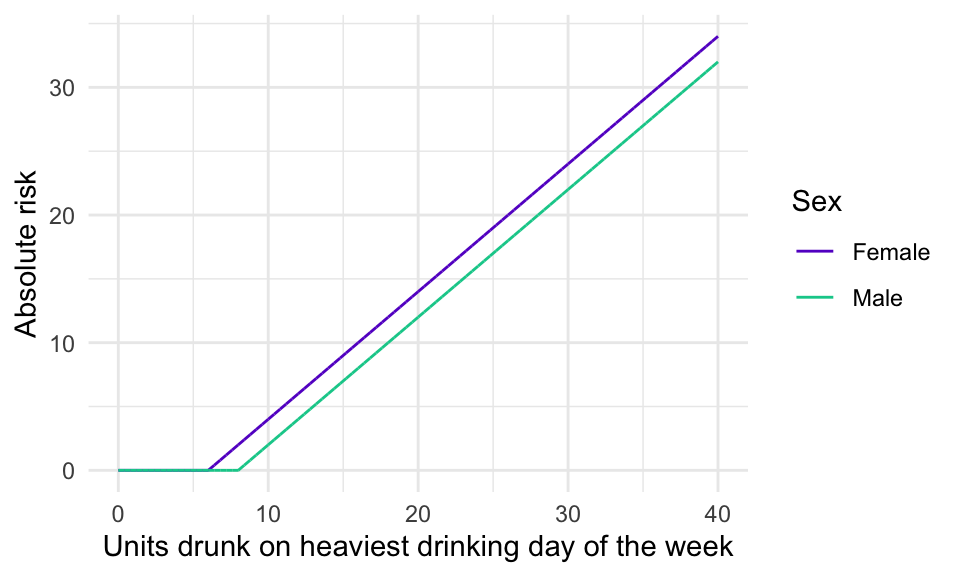
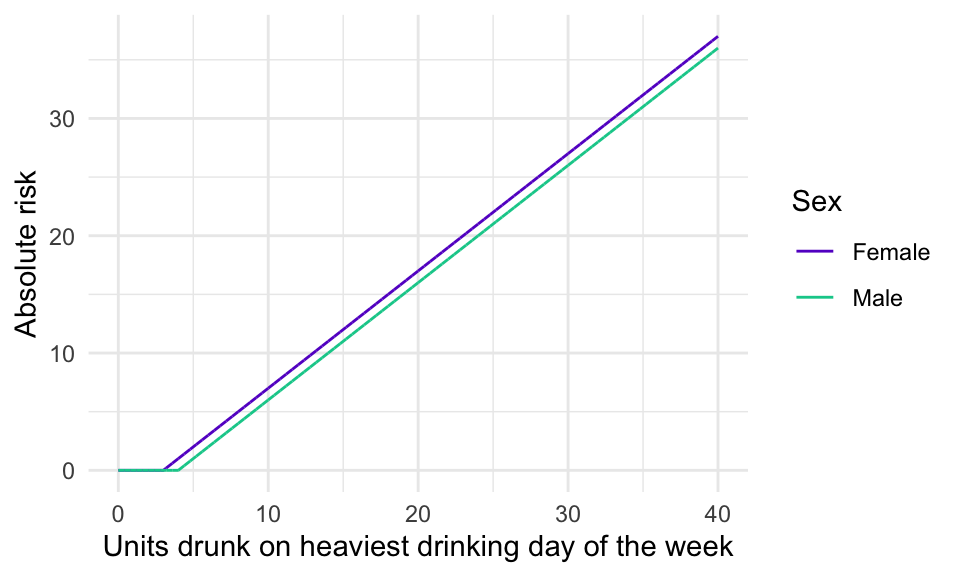
update alc wholly-attrib risk function code and desc

diff --git a/public/articles/alc_wholly_attrib_chronic.html b/public/articles/alc_wholly_attrib_chronic.html
@@ -5,13 +5,13 @@
 <meta charset="utf-8">
 <meta http-equiv="X-UA-Compatible" content="IE=edge">
 <meta name="viewport" content="width=device-width, initial-scale=1.0">
-<title>Risk of acute conditions wholly-attributable to alcohol • tobalcepi</title>
+<title>Risk of chronic conditions wholly-attributable to alcohol • tobalcepi</title>
 <!-- jquery --><script src="https://cdnjs.cloudflare.com/ajax/libs/jquery/3.4.1/jquery.min.js" integrity="sha256-CSXorXvZcTkaix6Yvo6HppcZGetbYMGWSFlBw8HfCJo=" crossorigin="anonymous"></script><!-- Bootstrap --><link href="https://cdnjs.cloudflare.com/ajax/libs/bootswatch/3.4.0/flatly/bootstrap.min.css" rel="stylesheet" crossorigin="anonymous">
 <script src="https://cdnjs.cloudflare.com/ajax/libs/twitter-bootstrap/3.4.1/js/bootstrap.min.js" integrity="sha256-nuL8/2cJ5NDSSwnKD8VqreErSWHtnEP9E7AySL+1ev4=" crossorigin="anonymous"></script><!-- bootstrap-toc --><link rel="stylesheet" href="../bootstrap-toc.css">
 <script src="../bootstrap-toc.js"></script><!-- Font Awesome icons --><link rel="stylesheet" href="https://cdnjs.cloudflare.com/ajax/libs/font-awesome/5.12.1/css/all.min.css" integrity="sha256-mmgLkCYLUQbXn0B1SRqzHar6dCnv9oZFPEC1g1cwlkk=" crossorigin="anonymous">
 <link rel="stylesheet" href="https://cdnjs.cloudflare.com/ajax/libs/font-awesome/5.12.1/css/v4-shims.min.css" integrity="sha256-wZjR52fzng1pJHwx4aV2AO3yyTOXrcDW7jBpJtTwVxw=" crossorigin="anonymous">
 <!-- clipboard.js --><script src="https://cdnjs.cloudflare.com/ajax/libs/clipboard.js/2.0.6/clipboard.min.js" integrity="sha256-inc5kl9MA1hkeYUt+EC3BhlIgyp/2jDIyBLS6k3UxPI=" crossorigin="anonymous"></script><!-- headroom.js --><script src="https://cdnjs.cloudflare.com/ajax/libs/headroom/0.11.0/headroom.min.js" integrity="sha256-AsUX4SJE1+yuDu5+mAVzJbuYNPHj/WroHuZ8Ir/CkE0=" crossorigin="anonymous"></script><script src="https://cdnjs.cloudflare.com/ajax/libs/headroom/0.11.0/jQuery.headroom.min.js" integrity="sha256-ZX/yNShbjqsohH1k95liqY9Gd8uOiE1S4vZc+9KQ1K4=" crossorigin="anonymous"></script><!-- pkgdown --><link href="../pkgdown.css" rel="stylesheet">
-<script src="../pkgdown.js"></script><meta property="og:title" content="Risk of acute conditions wholly-attributable to alcohol">
+<script src="../pkgdown.js"></script><meta property="og:title" content="Risk of chronic conditions wholly-attributable to alcohol">
 <meta property="og:description" content="tobalcepi">
 <!-- mathjax --><script src="https://cdnjs.cloudflare.com/ajax/libs/mathjax/2.7.5/MathJax.js" integrity="sha256-nvJJv9wWKEm88qvoQl9ekL2J+k/RWIsaSScxxlsrv8k=" crossorigin="anonymous"></script><script src="https://cdnjs.cloudflare.com/ajax/libs/mathjax/2.7.5/config/TeX-AMS-MML_HTMLorMML.js" integrity="sha256-84DKXVJXs0/F8OTMzX4UR909+jtl4G7SPypPavF+GfA=" crossorigin="anonymous"></script><!--[if lt IE 9]>
 <script src="https://oss.maxcdn.com/html5shiv/3.7.3/html5shiv.min.js"></script>
@@ -84,11 +84,11 @@
       </header><div class="row">
   <div class="col-md-9 contents">
     <div class="page-header toc-ignore">
-      <h1 data-toc-skip>Risk of acute conditions wholly-attributable to alcohol</h1>
+      <h1 data-toc-skip>Risk of chronic conditions wholly-attributable to alcohol</h1>
             
       
       
-      <div class="hidden name"><code>alc_wholly_attrib_acute.Rmd</code></div>
+      <div class="hidden name"><code>alc_wholly_attrib_chronic.Rmd</code></div>
 
     </div>
 
@@ -97,36 +97,30 @@
 <div id="introduction" class="section level1">
 <h1 class="hasAnchor">
 <a href="#introduction" class="anchor"></a>Introduction</h1>
-<p>Here we describe the approach taken in STAPM to model the health harms that are wholly-attributable to level of acute alcohol intake on a single occasion. The health harms that we consider in this category are conditions associated with the effects of excessive blood level of alcohol, toxic effects of alcohol, alcohol poisoning, and acute intoxication. “Wholly-attributable acute” means that these conditions cannot occur without alcohol (i.e. all cases are due to alcohol consumption) and the risk of these conditions changes with acute exposure to alcohol.</p>
+<p>Here we describe the approach taken in STAPM to model the chronic health harms that are wholly-attributable to long-term high levels of alcohol consumption. The health harms that we consider in this category are: Alcoholic cardiomyopathy, Alcoholic gastritis, Alcoholic liver disease, Acute pancreatitis alcohol induced, Chronic pancreatitis alcohol induced, Alcohol induced pseudo-cushings syndrome, Alcoholic myopathy, Alcoholic polyneuropathy, Maternal care for suspected damage to foetus from alcohol, Degeneration, Mental and behavioural disorders due to use of alcohol <span class="citation">(Angus et al. <a href="#ref-Angus2018">2018</a>)</span>. “Wholly-attributable” means that these conditions cannot occur without alcohol (i.e. all cases are due to alcohol consumption).</p>
 </div>
 <div id="the-sapm-method" class="section level1">
 <h1 class="hasAnchor">
 <a href="#the-sapm-method" class="anchor"></a>The SAPM method</h1>
-<p>We build on the method used to model the acute health harms that are wholly-attributable to alcohol in the Sheffield Alcohol Policy Model (SAPM).</p>
-<p>The main issue to be overcome in the development of SAPM was that there was no available evidence on the relationship between the level of acute exposure to alcohol within a single drinking ocassion and the risk of acute harms that were wholly attributable to this acute exposure. Assumptions therefore needed to be made about the shape of the risk function that links the level of single ocassion drinking to the risk of acute harms (the approach taken is described on page 29 in the Purshouse et al. modelling report for NICE <span class="citation">(<a href="#ref-purshouse2009nice">2009</a>)</span>).</p>
-<p>In addition, due to the harms being wholly-attributable to alcohol, no cases are expected in people who consume below a certain threshold of alcohol on a single ocassion, i.e. there are no cases in the non-exposed reference group. One of the consequences of this is that it is not possible to calculate relative risk; instead, the relationship between single ocassion drinking and acute harm must be represented by an absolute risk function, e.g. in terms of the expected number of deaths or hospitalisations if a certain number of people were to drink a certain number of units of alcohol on a single ocassion. Figure 1 shows the shape of the risk function currently used in SAPM.</p>
+<p>We build on the method used to model the chronic health harms that are wholly-attributable to alcohol in the Sheffield Alcohol Policy Model (SAPM). The main issue is that there is minimal available evidence on the relationship between the level of long-term alcohol consumption and the risk of chronic harms that were wholly attributable to alcohol. Assumptions are therefore needed about the shape of the risk function that links alcohol consumption to the risk of wholly alcohol attributable chronic conditions (the approach taken is described on page 28 in the Purshouse et al. modelling report for NICE <span class="citation">(<a href="#ref-purshouse2009nice">2009</a>)</span>).</p>
+<p>When the UK healthy drinking guidelines were revised, the thresholds used were revised to 2 units/day for females and males (14 units/week). Figure 1 shows the shape of the risk function currently used in SAPM.</p>
 <div class="figure" style="text-align: left">
-<img src="alc_wholly_attrib_acute_files/figure-html/wa_acute_risk_function-1.png" alt="**Figure 1.** Illustrative linear absolute risk function for a wholly-attributable acute harm. It is assumed that males are not at risk of acute harm unless they drink over 4 units on a single occassion, and that females are not at risk unless they drink over 3 units on a single ocassion. Above these thresholds, it is assumed that risk increases linearly with the amount drunk. SAPM uses data from the Health Survey for England on the amount drunk on the heaviest drinking day in the last 7 days." width="480"><p class="caption">
-<strong>Figure 1.</strong> Illustrative linear absolute risk function for a wholly-attributable acute harm. It is assumed that males are not at risk of acute harm unless they drink over 4 units on a single occassion, and that females are not at risk unless they drink over 3 units on a single ocassion. Above these thresholds, it is assumed that risk increases linearly with the amount drunk. SAPM uses data from the Health Survey for England on the amount drunk on the heaviest drinking day in the last 7 days.
+<img src="alc_wholly_attrib_chronic_files/figure-html/wa_chronic_risk_function-1.png" alt="**Figure 1.** Illustrative linear absolute risk function for a wholly-attributable chronic harm. It is assumed that people are not at risk of harm unless they drink to levels above the UK health drinking guidelines of 2 units/day on average (14 units/week). Above these thresholds, it is assumed that risk increases linearly with the amount drunk." width="480"><p class="caption">
+<strong>Figure 1.</strong> Illustrative linear absolute risk function for a wholly-attributable chronic harm. It is assumed that people are not at risk of harm unless they drink to levels above the UK health drinking guidelines of 2 units/day on average (14 units/week). Above these thresholds, it is assumed that risk increases linearly with the amount drunk.
 </p>
 </div>
 </div>
-<div id="adaptation-to-suit-stapm" class="section level1">
+<div id="implementing-in-the-stapm-code" class="section level1">
 <h1 class="hasAnchor">
-<a href="#adaptation-to-suit-stapm" class="anchor"></a>Adaptation to suit STAPM</h1>
-<p><em>The problem</em><br>
-The main difference between SAPM and STAPM is that STAPM simulates the individual lifecourse dynamics of the average weekly amount of alcohol consumed - STAPM does not simulate the dynamics of the amount drunk on the heaviest drinking day. This means that for STAPM, we need to develop a method to link the risk of acute harms that are wholly-attributable to alcohol consumption to average weekly alcohol consumption.</p>
-<p><em>The solution</em><br>
-The solution is to draw on the methods described in <code><a href="../articles/alc_partially_attrib_acute.html">vignette("alc_partially_attrib_acute")</a></code>, which uses parameter values from Hill-McManus et al. <span class="citation">(<a href="#ref-hill2014estimation">2014</a>)</span> to infer the characteristics of single ocassion drinking from average weekly alcohol consumption and a range of individual-level covariates. Using the method in <code><a href="../reference/AlcBinge_stapm.html">tobalcepi::AlcBinge_stapm()</a></code> we can calculate the average parameter values by age, sex and IMD quintile. Using these parameter values, we can translate each individual’s average weekly alcohol consumption to their expected number of weekly drinking ocasions, and the distribution of the amounts that each individual drinks on their drinking ocassions. For each individual, we can then calculate the total number of units per year that are drunk after each individual has already exceeded the single ocassion drinking thresholds of 4 units/day for men and 3 units/day for women.</p>
-<p><em>Implementing in the STAPM code</em><br>
-A new function <code><a href="../reference/WArisk_acute.html">tobalcepi::WArisk_acute()</a></code> has been created to calculate the total number of units that each individual is expected to drink above the single ocassion binge drinking thresholds. This function is called from within the function <code><a href="../reference/RRalc.html">tobalcepi::RRalc()</a></code> and uses the parameters outputs by <code><a href="../reference/AlcBinge_stapm.html">tobalcepi::AlcBinge_stapm()</a></code>.</p>
+<a href="#implementing-in-the-stapm-code" class="anchor"></a>Implementing in the STAPM code</h1>
+<p>The SAPM method is implemented unchanged in the STAPM code, within the function <code><a href="../reference/RRalc.html">tobalcepi::RRalc()</a></code>.</p>
 </div>
 <div id="references" class="section level1 unnumbered">
 <h1 class="hasAnchor">
 <a href="#references" class="anchor"></a>References</h1>
 <div id="refs" class="references">
-<div id="ref-hill2014estimation">
-<p>Hill-McManus, Daniel, Colin Angus, Yang Meng, John Holmes, Alan Brennan, and Petra Sylvia Meier. 2014. “Estimation of Usual Occasion-Based Individual Drinking Patterns Using Diary Survey Data.” <em>Drug and Alcohol Dependence</em> 134. Elsevier: 136–43. <a href="https://doi.org/https://doi.org/10.1016/j.drugalcdep.2013.09.022">https://doi.org/https://doi.org/10.1016/j.drugalcdep.2013.09.022</a>.</p>
+<div id="ref-Angus2018">
+<p>Angus, Colin, M Henney, L Webster, and Duncan Gillespie. 2018. <em>Alcohol-Attributable Diseases and Dose-Response Curves for the Sheffield Alcohol Policy Model Version 4.0</em>. <a href="https://doi.org/10.15131/shef.data.6819689.v1">https://doi.org/10.15131/shef.data.6819689.v1</a>.</p>
 </div>
 <div id="ref-purshouse2009nice">
 <p>Purshouse R, Latimer N, Brennan A. 2009. “Modelling to Assess the Effectiveness and Cost-Effectiveness of Public Health Related Strategies and Intervention to Reduce Alcohol Attributable Harm in England Using the Sheffield Alcohol Policy Model Version 2.0.” Report to the NICE Public Health Programme Development Group. <a href="https://www.nice.org.uk/guidance/ph24/evidence/economic-modelling-report-371533357">https://www.nice.org.uk/guidance/ph24/evidence/economic-modelling-report-371533357</a>.</p>

diff --git a/public/reference/RRFunc.html b/public/reference/RRFunc.html
@@ -103,6 +103,9 @@ to the alcohol only, tobacco only, or joint tobacco and alcohol contexts." />
       <a href="../articles/alc_wholly_attrib_acute.html">Risk of acute conditions wholly-attributable to alcohol</a>
     </li>
     <li>
+      <a href="../articles/alc_wholly_attrib_chronic.html">Risk of chronic conditions wholly-attributable to alcohol</a>
+    </li>
+    <li>
       <a href="../articles/attributable-fractions.html">Population attributable fractions of disease</a>
     </li>
     <li>
@@ -146,8 +149,8 @@ to the alcohol only, tobacco only, or joint tobacco and alcohol contexts.</p>
   <span class='kw'>alc_risk_lags</span> <span class='kw'>=</span> <span class='fl'>TRUE</span>,
   <span class='kw'>alc_indiv_risk_trajectories_store</span> <span class='kw'>=</span> <span class='kw'>NULL</span>,
   <span class='kw'>alc_protective</span> <span class='kw'>=</span> <span class='fl'>TRUE</span>,
-  <span class='kw'>alc_wholly_chronic_thresholds</span> <span class='kw'>=</span> <span class='fu'><a href='https://rdrr.io/r/base/c.html'>c</a></span>(<span class='fl'>6</span>, <span class='fl'>8</span>),
-  <span class='kw'>alc_wholly_acute_thresholds</span> <span class='kw'>=</span> <span class='fu'><a href='https://rdrr.io/r/base/c.html'>c</a></span>(<span class='fl'>6</span>, <span class='fl'>8</span>),
+  <span class='kw'>alc_wholly_chronic_thresholds</span> <span class='kw'>=</span> <span class='fu'><a href='https://rdrr.io/r/base/c.html'>c</a></span>(<span class='fl'>2</span>, <span class='fl'>2</span>),
+  <span class='kw'>alc_wholly_acute_thresholds</span> <span class='kw'>=</span> <span class='fu'><a href='https://rdrr.io/r/base/c.html'>c</a></span>(<span class='fl'>3</span>, <span class='fl'>4</span>),
   <span class='kw'>grams_ethanol_per_unit</span> <span class='kw'>=</span> <span class='fl'>8</span>,
   <span class='kw'>tob_diseases</span> <span class='kw'>=</span> <span class='fu'><a href='https://rdrr.io/r/base/c.html'>c</a></span>(<span class='st'>"Pharynx"</span>, <span class='st'>"Oral_cavity"</span>),
   <span class='kw'>tob_include_risk_in_former_smokers</span> <span class='kw'>=</span> <span class='fl'>TRUE</span>,
@@ -198,15 +201,17 @@ alcohol in the risk function. Defaults to TRUE. If TRUE, then the part of the ri
     </tr>
     <tr>
       <th>alc_wholly_chronic_thresholds</th>
-      <td><p>Numeric vector - the thresholds in units/week over
-which individuals begin to experience an elevated risk
-for chronic diseases that are wholly attributable to alcohol. Input in the form c(male, female).</p></td>
+      <td><p>Numeric vector - the thresholds in UK standard units of alcohol per day 
+over which individuals begin to experience an elevated risk
+ for chronic diseases that are wholly attributable to alcohol. Input in the order c(female, male). 
+ Defaults to the current UK healthy drinking threshold of 14 units/week for females and males, or 2 units/day.</p></td>
     </tr>
     <tr>
       <th>alc_wholly_acute_thresholds</th>
-      <td><p>Numeric vector - the thresholds in units/day over
+      <td><p>Numeric vector - the thresholds in UK standard units of alcohol /day over
 which individuals begin to experience an elevated risk
-for acute diseases that are wholly attributable to alcohol. Input in the form c(male, female).</p></td>
+for acute diseases that are wholly attributable to alcohol. Input in the form c(female, male). 
+Defaults to 3 units/day for females and 4 units/day for males.</p></td>
     </tr>
     <tr>
       <th>grams_ethanol_per_unit</th>
@@ -327,7 +332,7 @@ risk faced by people because they consume both tobacco and alcohol.</p>
   <span class='kw'>alc_diseases</span> <span class='kw'>=</span> <span class='no'>alc_disease_names</span>,
   <span class='kw'>alc_indiv_risk_trajectories_store</span> <span class='kw'>=</span> <span class='kw'>NULL</span>,
   <span class='kw'>alc_wholly_chronic_thresholds</span> <span class='kw'>=</span> <span class='fu'><a href='https://rdrr.io/r/base/c.html'>c</a></span>(<span class='fl'>2</span>, <span class='fl'>2</span>),
-  <span class='kw'>alc_wholly_acute_thresholds</span> <span class='kw'>=</span> <span class='fu'><a href='https://rdrr.io/r/base/c.html'>c</a></span>(<span class='fl'>3</span>, <span class='fl'>3</span>),
+  <span class='kw'>alc_wholly_acute_thresholds</span> <span class='kw'>=</span> <span class='fu'><a href='https://rdrr.io/r/base/c.html'>c</a></span>(<span class='fl'>3</span>, <span class='fl'>4</span>),
   <span class='kw'>show_progress</span> <span class='kw'>=</span> <span class='fl'>TRUE</span>
 )
 
@@ -343,7 +348,7 @@ risk faced by people because they consume both tobacco and alcohol.</p>
   <span class='kw'>alc_diseases</span> <span class='kw'>=</span> <span class='no'>alc_disease_names</span>,
   <span class='kw'>alc_indiv_risk_trajectories_store</span> <span class='kw'>=</span> <span class='no'>test_data1</span>$<span class='no'>new_alc_indiv_risk_trajectories_store</span>,
   <span class='kw'>alc_wholly_chronic_thresholds</span> <span class='kw'>=</span> <span class='fu'><a href='https://rdrr.io/r/base/c.html'>c</a></span>(<span class='fl'>2</span>, <span class='fl'>2</span>),
-  <span class='kw'>alc_wholly_acute_thresholds</span> <span class='kw'>=</span> <span class='fu'><a href='https://rdrr.io/r/base/c.html'>c</a></span>(<span class='fl'>3</span>, <span class='fl'>3</span>),
+  <span class='kw'>alc_wholly_acute_thresholds</span> <span class='kw'>=</span> <span class='fu'><a href='https://rdrr.io/r/base/c.html'>c</a></span>(<span class='fl'>3</span>, <span class='fl'>4</span>),
   <span class='kw'>show_progress</span> <span class='kw'>=</span> <span class='fl'>TRUE</span>
 )
 

diff --git a/public/reference/RRalc.html b/public/reference/RRalc.html
@@ -101,6 +101,9 @@
       <a href="../articles/alc_wholly_attrib_acute.html">Risk of acute conditions wholly-attributable to alcohol</a>
     </li>
     <li>
+      <a href="../articles/alc_wholly_attrib_chronic.html">Risk of chronic conditions wholly-attributable to alcohol</a>
+    </li>
+    <li>
       <a href="../articles/attributable-fractions.html">Population attributable fractions of disease</a>
     </li>
     <li>
@@ -141,8 +144,8 @@
   <span class='kw'>age_var</span> <span class='kw'>=</span> <span class='st'>"age"</span>,
   <span class='kw'>mort_or_morb</span> <span class='kw'>=</span> <span class='fu'><a href='https://rdrr.io/r/base/c.html'>c</a></span>(<span class='st'>"mort"</span>, <span class='st'>"morb"</span>),
   <span class='kw'>protective</span> <span class='kw'>=</span> <span class='fl'>TRUE</span>,
-  <span class='kw'>alc_wholly_chronic_thresholds</span> <span class='kw'>=</span> <span class='fu'><a href='https://rdrr.io/r/base/c.html'>c</a></span>(<span class='fl'>6</span>, <span class='fl'>8</span>),
-  <span class='kw'>alc_wholly_acute_thresholds</span> <span class='kw'>=</span> <span class='fu'><a href='https://rdrr.io/r/base/c.html'>c</a></span>(<span class='fl'>6</span>, <span class='fl'>8</span>),
+  <span class='kw'>alc_wholly_chronic_thresholds</span> <span class='kw'>=</span> <span class='fu'><a href='https://rdrr.io/r/base/c.html'>c</a></span>(<span class='fl'>2</span>, <span class='fl'>2</span>),
+  <span class='kw'>alc_wholly_acute_thresholds</span> <span class='kw'>=</span> <span class='fu'><a href='https://rdrr.io/r/base/c.html'>c</a></span>(<span class='fl'>3</span>, <span class='fl'>4</span>),
   <span class='kw'>grams_ethanol_per_unit</span> <span class='kw'>=</span> <span class='fl'>8</span>
 )</pre>
 
@@ -183,15 +186,17 @@ alcohol in the risk function. Defaults to TRUE. If TRUE, then the part of the ri
     </tr>
     <tr>
       <th>alc_wholly_chronic_thresholds</th>
-      <td><p>Numeric vector - the thresholds in grams of ethanol /week over
-which individuals begin to experience an elevated risk
-for chronic diseases that are wholly attributable to alcohol. Input in the form c(female, male).</p></td>
+      <td><p>Numeric vector - the thresholds in UK standard units of alcohol per day 
+over which individuals begin to experience an elevated risk
+ for chronic diseases that are wholly attributable to alcohol. Input in the order c(female, male). 
+ Defaults to the current UK healthy drinking threshold of 14 units/week for females and males, or 2 units/day.</p></td>
     </tr>
     <tr>
       <th>alc_wholly_acute_thresholds</th>
-      <td><p>Numeric vector - the thresholds in units of alcohol /day over
+      <td><p>Numeric vector - the thresholds in UK standard units of alcohol /day over
 which individuals begin to experience an elevated risk
-for acute diseases that are wholly attributable to alcohol. Input in the form c(female, male). Defaults to c(6, 8).</p></td>
+for acute diseases that are wholly attributable to alcohol. Input in the form c(female, male). 
+Defaults to 3 units/day for females and 4 units/day for males.</p></td>
     </tr>
     <tr>
       <th>grams_ethanol_per_unit</th>

diff --git a/public/reference/WArisk_acute.html b/public/reference/WArisk_acute.html
@@ -103,6 +103,9 @@ that each individual experiences each acute consequence of drinking during one y
       <a href="../articles/alc_wholly_attrib_acute.html">Risk of acute conditions wholly-attributable to alcohol</a>
     </li>
     <li>
+      <a href="../articles/alc_wholly_attrib_chronic.html">Risk of chronic conditions wholly-attributable to alcohol</a>
+    </li>
+    <li>
       <a href="../articles/attributable-fractions.html">Population attributable fractions of disease</a>
     </li>
     <li>
@@ -175,9 +178,10 @@ ethanol in one UK standard unit of alcohol.</p></td>
     </tr>
     <tr>
       <th>alc_wholly_acute_thresholds</th>
-      <td><p>Numeric vector - the thresholds in grams of ethanol /day over
+      <td><p>Numeric vector - the thresholds in UK standard units of alcohol /day over
 which individuals begin to experience an elevated risk
-for acute diseases that are wholly attributable to alcohol. Input in the form c(female, male).</p></td>
+for acute diseases that are wholly attributable to alcohol. Input in the form c(female, male). 
+Defaults to 3 units/day for females and 4 units/day for males.</p></td>
     </tr>
     </table>
 

diff --git a/public/articles/index.html b/public/articles/index.html
@@ -100,6 +100,9 @@
       <a href="../articles/alc_wholly_attrib_acute.html">Risk of acute conditions wholly-attributable to alcohol</a>
     </li>
     <li>
+      <a href="../articles/alc_wholly_attrib_chronic.html">Risk of chronic conditions wholly-attributable to alcohol</a>
+    </li>
+    <li>
       <a href="../articles/attributable-fractions.html">Population attributable fractions of disease</a>
     </li>
     <li>
@@ -134,6 +137,8 @@
         <dt><a href="alc_partially_attrib_acute.html">Risk of acute conditions partially-attributable to alcohol</a></dt>
         <dd></dt>
         <dt><a href="alc_wholly_attrib_acute.html">Risk of acute conditions wholly-attributable to alcohol</a></dt>
+        <dd></dt>
+        <dt><a href="alc_wholly_attrib_chronic.html">Risk of chronic conditions wholly-attributable to alcohol</a></dt>
         <dd></dt>
         <dt><a href="attributable-fractions.html">Population attributable fractions of disease</a></dt>
         <dd></dt>

diff --git a/public/reference/binge_params_stapm.html b/public/reference/binge_params_stapm.html
@@ -106,6 +106,9 @@ Individual height and weight is needed for the calculation of time spent intoxic
       <a href="../articles/alc_wholly_attrib_acute.html">Risk of acute conditions wholly-attributable to alcohol</a>
     </li>
     <li>
+      <a href="../articles/alc_wholly_attrib_chronic.html">Risk of chronic conditions wholly-attributable to alcohol</a>
+    </li>
+    <li>
       <a href="../articles/attributable-fractions.html">Population attributable fractions of disease</a>
     </li>
     <li>

diff --git a/public/reference/subgroupRisk.html b/public/reference/subgroupRisk.html
@@ -102,6 +102,9 @@ or calculate the subgroup specific attributable fraction based on the current re
       <a href="../articles/alc_wholly_attrib_acute.html">Risk of acute conditions wholly-attributable to alcohol</a>
     </li>
     <li>
+      <a href="../articles/alc_wholly_attrib_chronic.html">Risk of chronic conditions wholly-attributable to alcohol</a>
+    </li>
+    <li>
       <a href="../articles/attributable-fractions.html">Population attributable fractions of disease</a>
     </li>
     <li>

diff --git a/public/reference/PArisk.html b/public/reference/PArisk.html
@@ -102,6 +102,9 @@ for each individual for experiencing each cause during one year." />
       <a href="../articles/alc_wholly_attrib_acute.html">Risk of acute conditions wholly-attributable to alcohol</a>
     </li>
     <li>
+      <a href="../articles/alc_wholly_attrib_chronic.html">Risk of chronic conditions wholly-attributable to alcohol</a>
+    </li>
+    <li>
       <a href="../articles/attributable-fractions.html">Population attributable fractions of disease</a>
     </li>
     <li>

diff --git a/public/reference/TobAlcInt.html b/public/reference/TobAlcInt.html
@@ -102,6 +102,9 @@ individual's tobacco and alcohol consumption." />
       <a href="../articles/alc_wholly_attrib_acute.html">Risk of acute conditions wholly-attributable to alcohol</a>
     </li>
     <li>
+      <a href="../articles/alc_wholly_attrib_chronic.html">Risk of chronic conditions wholly-attributable to alcohol</a>
+    </li>
+    <li>
       <a href="../articles/attributable-fractions.html">Population attributable fractions of disease</a>
     </li>
     <li>

diff --git a/public/reference/AlcBinge.html b/public/reference/AlcBinge.html
@@ -103,6 +103,9 @@ the patterns of single occassion drinking." />
       <a href="../articles/alc_wholly_attrib_acute.html">Risk of acute conditions wholly-attributable to alcohol</a>
     </li>
     <li>
+      <a href="../articles/alc_wholly_attrib_chronic.html">Risk of chronic conditions wholly-attributable to alcohol</a>
+    </li>
+    <li>
       <a href="../articles/attributable-fractions.html">Population attributable fractions of disease</a>
     </li>
     <li>

diff --git a/public/reference/AlcBinge_stapm.html b/public/reference/AlcBinge_stapm.html
@@ -104,6 +104,9 @@ at each time step in the simulation." />
       <a href="../articles/alc_wholly_attrib_acute.html">Risk of acute conditions wholly-attributable to alcohol</a>
     </li>
     <li>
+      <a href="../articles/alc_wholly_attrib_chronic.html">Risk of chronic conditions wholly-attributable to alcohol</a>
+    </li>
+    <li>
       <a href="../articles/attributable-fractions.html">Population attributable fractions of disease</a>
     </li>
     <li>

diff --git a/public/reference/AlcLags.html b/public/reference/AlcLags.html
@@ -103,6 +103,9 @@ since alcohol consumption changed." />
       <a href="../articles/alc_wholly_attrib_acute.html">Risk of acute conditions wholly-attributable to alcohol</a>
     </li>
     <li>
+      <a href="../articles/alc_wholly_attrib_chronic.html">Risk of chronic conditions wholly-attributable to alcohol</a>
+    </li>
+    <li>
       <a href="../articles/attributable-fractions.html">Population attributable fractions of disease</a>
     </li>
     <li>
